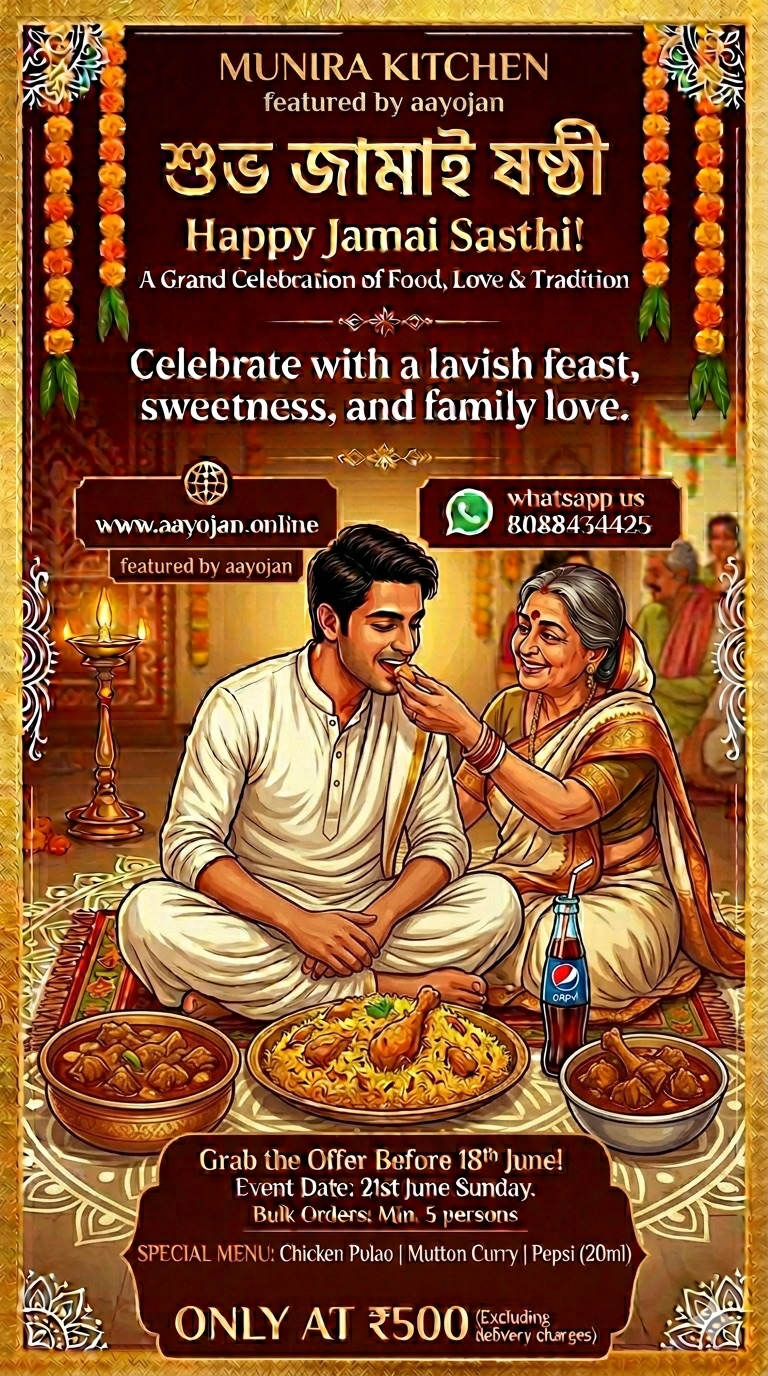
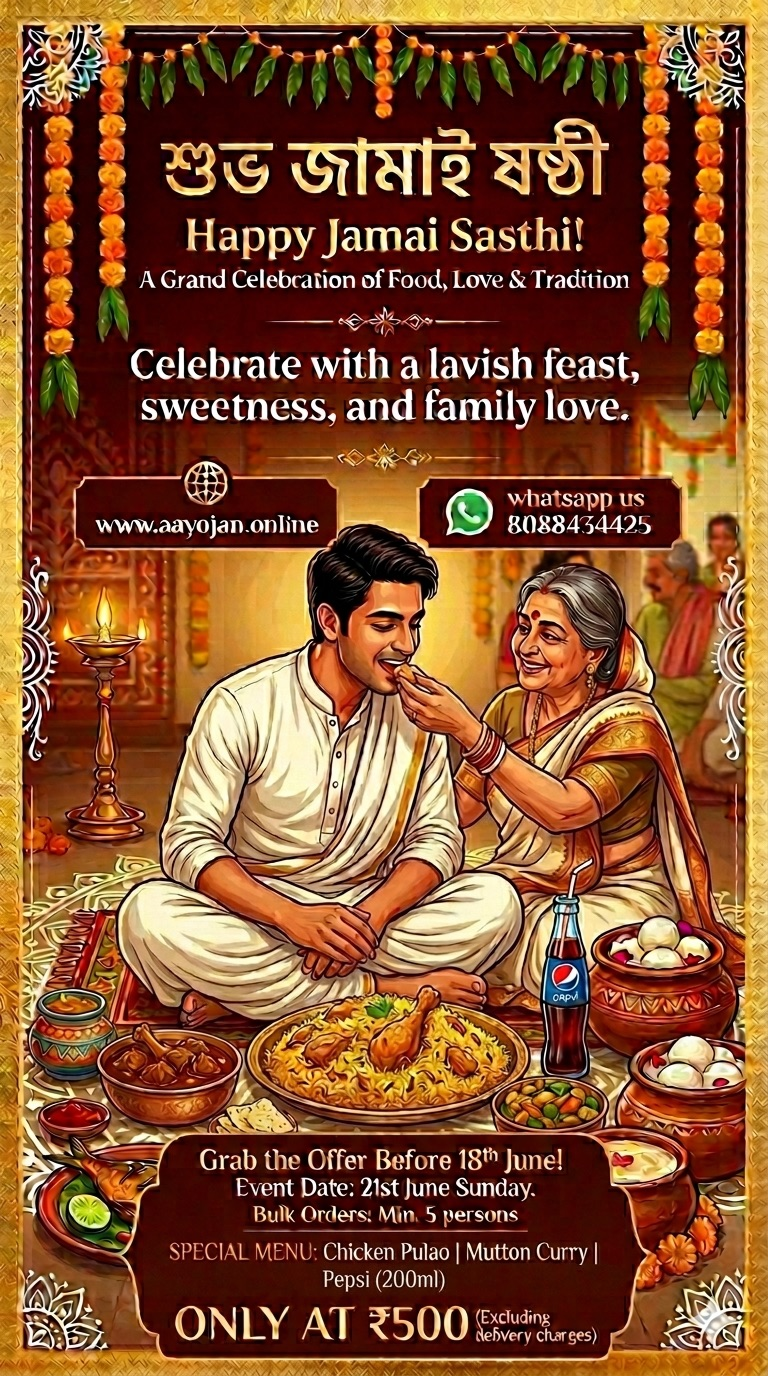
poster: swap in gated Jamai Sasthi art (kitchen name removed, Pepsi 200ml)
Replace jamai-sasthi.jpg with the revised poster (no MUNIRA header, Pepsi
200ml fixed) + cache-bust ?v=2 on events + landing.

diff --git a/frontend/public/events/index.html b/frontend/public/events/index.html
@@ -426,7 +426,7 @@ section.block{padding:4rem 5%;}
 <!-- JAMAI SASTHI POSTER (featured seasonal promo) -->
 <section class="jamai-poster-sec">
   <a data-ai-planner href="#aiplan" aria-label="Plan your Jamai Sasthi feast with Aayojan AI">
-    <img class="jps-img" src="/events/img/promo/jamai-sasthi.jpg" alt="শুভ জামাই ষষ্ঠী · Happy Jamai Sasthi — lavish Bengali feast from ₹500, featured by Aayojan" loading="lazy" width="340" height="609">
+    <img class="jps-img" src="/events/img/promo/jamai-sasthi.jpg?v=2" alt="শুভ জামাই ষষ্ঠী · Happy Jamai Sasthi — lavish Bengali feast from ₹500, featured by Aayojan" loading="lazy" width="340" height="609">
   </a>
   <div><a class="jps-cta" data-ai-planner href="#aiplan">✨ Plan your Jamai Sasthi feast →</a></div>
 </section>

diff --git a/frontend/src/App.jsx b/frontend/src/App.jsx
@@ -1364,7 +1364,7 @@ export default function AayojanApp(){
 
              {/* Jamai Sasthi featured poster — consistent with /events */}
              <a href="/events/" style={{display:"block",maxWidth:340,margin:"0 auto 34px",textDecoration:"none"}}>
-               <img src="/events/img/promo/jamai-sasthi.jpg" alt="শুভ জামাই ষষ্ঠী · Happy Jamai Sasthi — lavish Bengali feast from ₹500, featured by Aayojan" loading="lazy" width="340" height="609" style={{width:"100%",borderRadius:16,boxShadow:"0 18px 50px rgba(76,43,10,0.3)",border:"2px solid rgba(243,200,105,0.5)",display:"block"}} />
+               <img src="/events/img/promo/jamai-sasthi.jpg?v=2" alt="শুভ জামাই ষষ্ঠী · Happy Jamai Sasthi — lavish Bengali feast from ₹500, featured by Aayojan" loading="lazy" width="340" height="609" style={{width:"100%",borderRadius:16,boxShadow:"0 18px 50px rgba(76,43,10,0.3)",border:"2px solid rgba(243,200,105,0.5)",display:"block"}} />
                <div style={{textAlign:"center",marginTop:14}}><span style={{display:"inline-block",background:"#E8760A",color:"#fff",fontWeight:800,padding:"11px 24px",borderRadius:99,fontSize:14}}>✨ Plan your Jamai Sasthi feast →</span></div>
              </a>
 